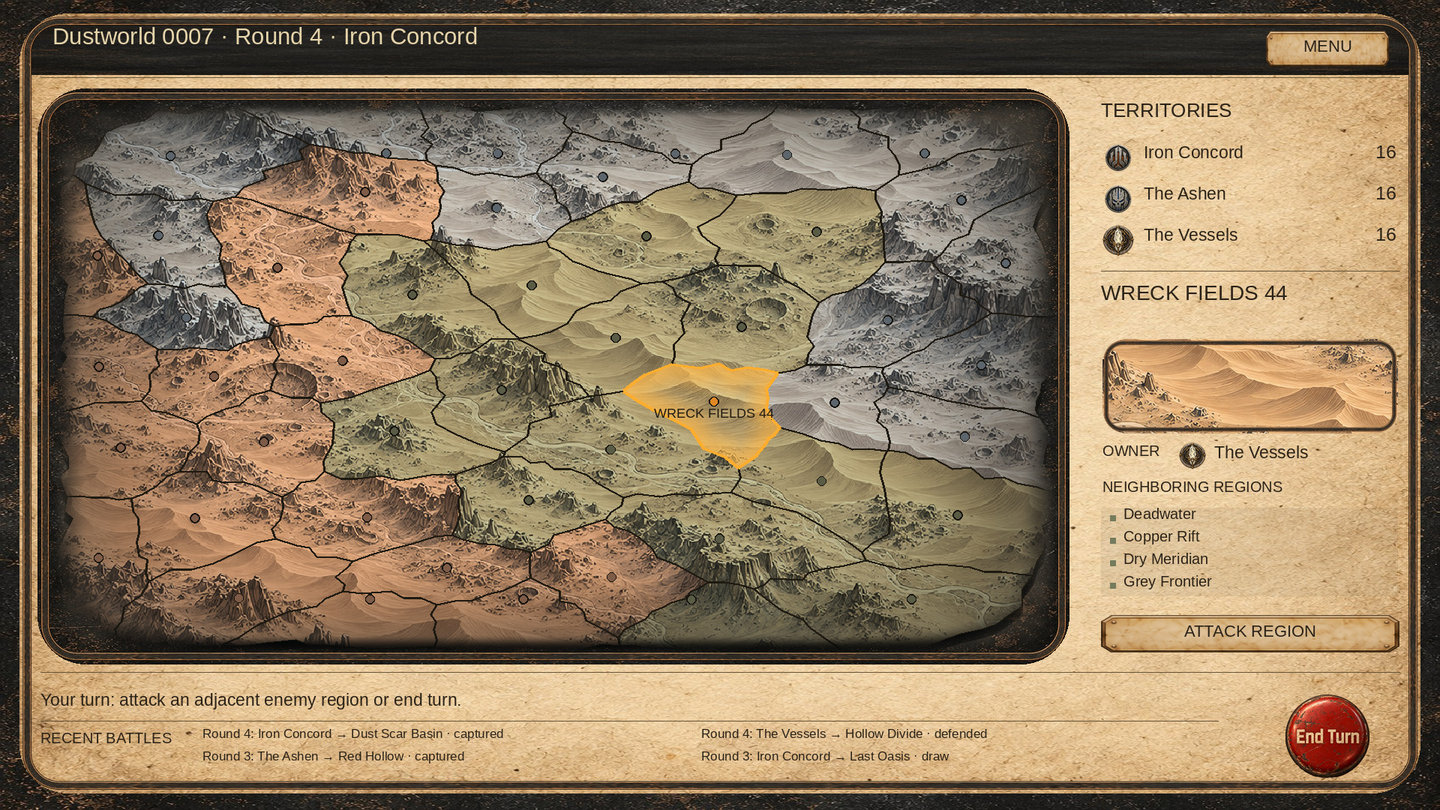
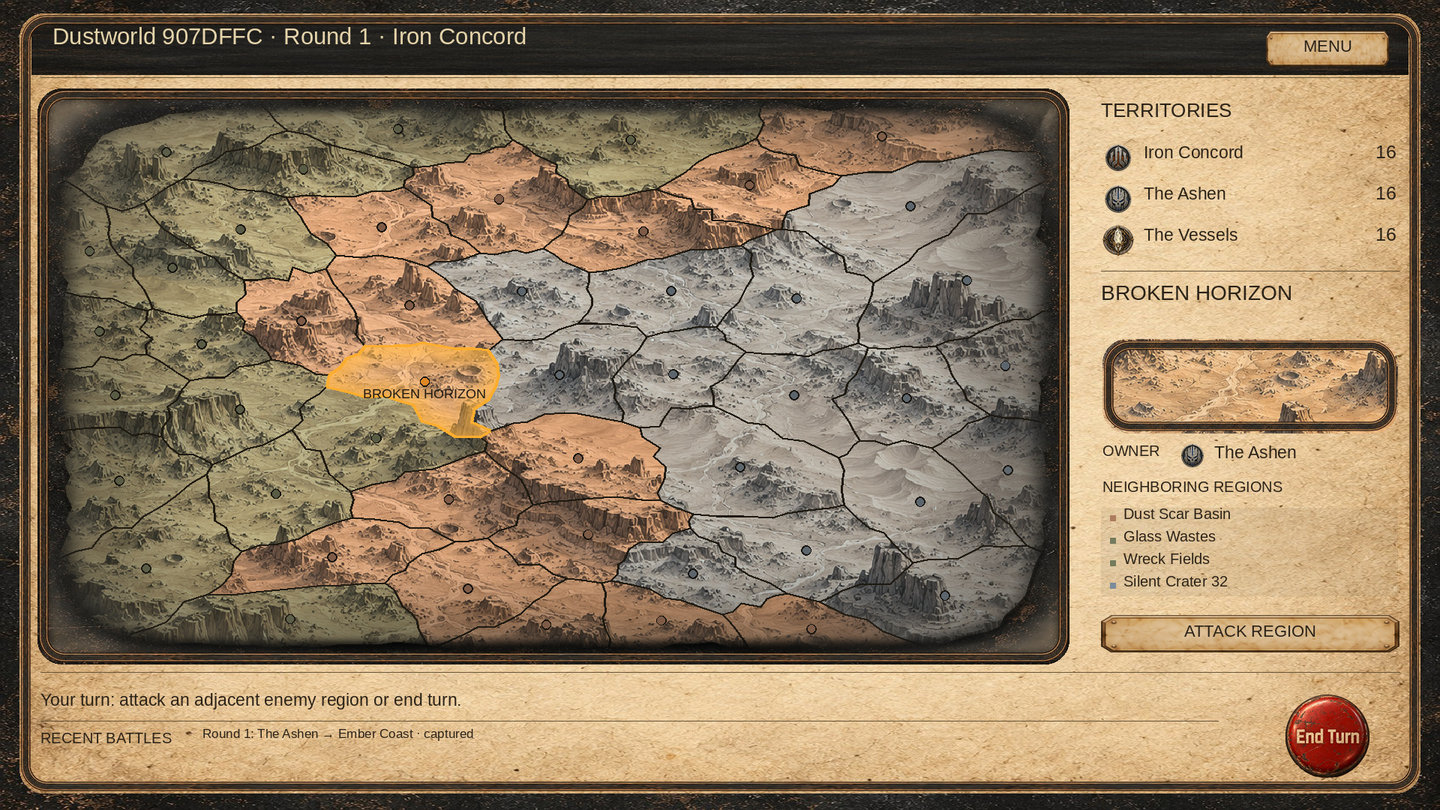
Refine campaign cloud blending, compact frame corners and center region markers

diff --git a/Assets/Editor/CampaignVisualTests.cs b/Assets/Editor/CampaignVisualTests.cs
@@ -8,10 +8,12 @@ using UnityEngine.UI;
 
 public sealed class CampaignVisualTests
 {
-    [TestCase(false, 0f)]
-    [TestCase(false, .99f)]
-    [TestCase(true, 0f)]
-    public void ShaderKeepsBothSidesAfterCanvasBatchTranslation(bool croppedOverlay, float markerRadius)
+    [TestCase(false, 0f, false, 0f)]
+    [TestCase(false, .99f, false, 0f)]
+    [TestCase(true, 0f, false, 0f)]
+    [TestCase(false, 0f, true, 0f)]
+    [TestCase(false, .99f, false, -1f)]
+    public void ShaderKeepsBothSidesAfterCanvasBatchTranslation(bool croppedOverlay, float markerRadius, bool clouds, float surfaceMode)
     {
         if (SystemInfo.graphicsDeviceType == UnityEngine.Rendering.GraphicsDeviceType.Null)
             Assert.Ignore("A graphics device is required for the batched UI shader regression.");
@@ -28,7 +30,7 @@ public sealed class CampaignVisualTests
             mesh.uv = croppedOverlay
                 ? new[] { new Vector2(.2f, .3f), new Vector2(.52f, .3f), new Vector2(.52f, .42f), new Vector2(.2f, .42f) }
                 : new[] { Vector2.zero, Vector2.right, Vector2.one, Vector2.up };
-            mesh.SetUVs(1, new System.Collections.Generic.List<Vector4> { new Vector4(0, 1, markerRadius, 0), new Vector4(0, 1, markerRadius, 0), new Vector4(0, 1, markerRadius, 0), new Vector4(0, 1, markerRadius, 0) });
+            mesh.SetUVs(1, new System.Collections.Generic.List<Vector4> { new Vector4(surfaceMode, 1, markerRadius, 0), new Vector4(surfaceMode, 1, markerRadius, 0), new Vector4(surfaceMode, 1, markerRadius, 0), new Vector4(surfaceMode, 1, markerRadius, 0) });
             mesh.SetUVs(2, new System.Collections.Generic.List<Vector4> { new Vector4(0, 0, 0, 0), new Vector4(0, 0, 1, 0), new Vector4(0, 0, 1, 1), new Vector4(0, 0, 0, 1) });
             mesh.triangles = new[] { 0, 1, 2, 0, 2, 3 };
             material.SetVector("_SurfaceSize", new Vector4(1360, 740, 0, 0));
@@ -38,6 +40,11 @@ public sealed class CampaignVisualTests
                 material.SetFloat("_Atmosphere", 1);
                 material.SetFloat("_CornerRadius", 64);
                 material.SetVector("_UVRect", new Vector4(.2f, .3f, .32f, .12f));
+            }
+            if (clouds)
+            {
+                material.SetFloat("_Atmosphere", 1);
+                material.SetFloat("_CloudOverlay", 1);
             }
             material.SetTexture("_MainTex", Texture2D.whiteTexture);
             material.SetInt("unity_GUIZTestMode", (int)UnityEngine.Rendering.CompareFunction.Always);
@@ -53,8 +60,17 @@ public sealed class CampaignVisualTests
             finally { GL.PopMatrix(); }
             readback.ReadPixels(new Rect(0, 0, 512, 256), 0, 0); readback.Apply();
             // x=-800 was incorrectly below the old local xMin=-680, despite being inside the map.
-            Assert.That(readback.GetPixel(43, 128).a, Is.GreaterThan(.95f), "Left side clipped by mixed coordinate spaces");
-            Assert.That(readback.GetPixel(336, 128).a, Is.GreaterThan(.95f), "Right side must stay visible too");
+            if (clouds || surfaceMode < 0)
+            {
+                Assert.That(readback.GetPixel(43, 128).a, Is.LessThan(.15f), "Clouds over regions and the depth silhouette must stay soft");
+                if (clouds)
+                    Assert.That(readback.GetPixel(18, 53).a, Is.GreaterThan(readback.GetPixel(180, 128).a * 5), "Clouds must remain denser outside the map near its corners");
+            }
+            else
+            {
+                Assert.That(readback.GetPixel(43, 128).a, Is.GreaterThan(.95f), "Left side clipped by mixed coordinate spaces");
+                Assert.That(readback.GetPixel(336, 128).a, Is.GreaterThan(.95f), "Right side must stay visible too");
+            }
             if (croppedOverlay)
                 Assert.That(readback.GetPixel(14, 51).a, Is.LessThan(.02f), "Cropped terrain UVs must not move the rounded mask away from its corner");
         }
@@ -163,6 +179,27 @@ public sealed class CampaignVisualTests
         Assert.True(CampaignGeometry.Contains(region.PolygonVertices, CampaignRegionGraphic.InteriorCenter(region)));
     }
     [Test]
+    public void MarkerCenterDoesNotDependOnBorderVertexDensity()
+    {
+        var region = new RegionState { PolygonVertices = new System.Collections.Generic.List<Vector2>
+            { new Vector2(-.2f, -.2f), new Vector2(.2f, -.2f), new Vector2(.2f, .2f),
+              new Vector2(.1f, .2f), new Vector2(0, .2f), new Vector2(-.1f, .2f), new Vector2(-.2f, .2f) } };
+        Assert.That(CampaignRegionGraphic.InteriorCenter(region).sqrMagnitude, Is.LessThan(1e-10f));
+    }
+    [Test]
+    public void OuterRegionMarkerStaysAtItsVisibleAreaCenter()
+    {
+        var region = new RegionState { PolygonVertices = new System.Collections.Generic.List<Vector2>
+            { new Vector2(-.08f, .84f), new Vector2(.08f, .84f), new Vector2(.08f, .96f), new Vector2(-.08f, .96f) } };
+        var marker = CampaignRegionGraphic.VisibleCenter(region);
+        var displayed = CampaignMapView.Project(marker);
+        Assert.True(CampaignGeometry.Contains(region.PolygonVertices, marker));
+        Assert.That(displayed.x, Is.EqualTo(0).Within(1e-5f));
+        Assert.That(displayed.y, Is.InRange(.880f, .890f), "The former .80 viewport gate pulled this marker away from its region center");
+        foreach (var point in region.PolygonVertices)
+            Assert.That((CampaignMapView.Unproject(CampaignMapView.Project(point)) - point).sqrMagnitude, Is.LessThan(1e-10f));
+    }
+    [Test]
     public void SelectionGlowFadesFromContourTowardTheInterior()
     {
         var boundary = new[] { new Vector2(0, 0), new Vector2(100, 0), new Vector2(100, 100), new Vector2(0, 100) };
@@ -225,6 +262,14 @@ public sealed class CampaignVisualTests
                 vh.FillMesh(mesh);
             }
             Assert.True(mesh.uv3.All(v => v.x == 0));
+            graphic.Configure(state.Regions[0], null, null, true);
+            using (var vh = new VertexHelper())
+            {
+                typeof(CampaignRegionGraphic).GetMethod("OnPopulateMesh", System.Reflection.BindingFlags.NonPublic | System.Reflection.BindingFlags.Instance)
+                    .Invoke(graphic, new object[] { vh });
+                vh.FillMesh(mesh);
+            }
+            Assert.True(mesh.uv2.All(v => v.x == -1), "Depth meshes must use the solid-color horizon-fade shader mode");
             CampaignGeometry.Validate(state.Regions, true);
         }
         finally { Object.DestroyImmediate(root); Object.DestroyImmediate(mesh); Object.DestroyImmediate(material); }

diff --git a/Assets/Scripts/Campaign/CampaignUI.cs b/Assets/Scripts/Campaign/CampaignUI.cs
@@ -18,7 +18,7 @@ namespace Game.Campaign
         [SerializeField] private Sprite endTurnSprite, actionButtonSprite;
         [SerializeField] private Sprite ironConcordLogo, ashenLogo, vesselsLogo;
         private Sprite frameSprite, paperSprite, metalSprite;
-        private Material cloudMaterial, consoleMaterial, surfacePanelMaterial, regionPreviewMaterial;
+        private Material cloudMaterial, consoleMaterial, surfacePanelMaterial, regionPreviewMaterial, modalPanelMaterial;
         private static readonly Color PaperInk = new Color(.17f, .135f, .095f);
         private static readonly Color Cream = new Color(.90f, .83f, .67f);
         private RectTransform canvas, sidebar, footer, modal, modalContent;
@@ -48,7 +48,7 @@ namespace Game.Campaign
                 consoleMaterial = new Material(cloudShader) { name = "CampaignConsole (runtime)" };
                 consoleMaterial.SetFloat("_Atmosphere", 1);
                 consoleMaterial.SetFloat("_EdgeFeather", 1);
-                consoleMaterial.SetFloat("_CornerRadius", 64);
+                consoleMaterial.SetFloat("_CornerRadius", 32);
                 consoleMaterial.SetVector("_SurfaceSize", new Vector4(1868, 1040, 0, 0));
                 console.GetComponent<Image>().material = consoleMaterial;
                 console.gameObject.AddComponent<Mask>();
@@ -72,19 +72,21 @@ namespace Game.Campaign
             mapRect.offsetMin = new Vector2(12, 12); mapRect.offsetMax = new Vector2(-12, -12);
             mapRect.gameObject.AddComponent<RectMask2D>();
             map = mapRect.gameObject.AddComponent<CampaignMapView>();
-            // Under the map: atmosphere fills the remaining corners but never paints over regions.
+            // Above the terrain: dense over the background, restrained over the region footprint.
             var clouds = CollectionUIElements.Rect(surface, "AtmosphericClouds"); CollectionUIElements.Stretch(clouds);
-            clouds.offsetMin = new Vector2(12, 12); clouds.offsetMax = new Vector2(-12, -12);
-            clouds.SetSiblingIndex(mapRect.GetSiblingIndex());
             var cloudImage = clouds.gameObject.AddComponent<RawImage>();
             cloudImage.texture = Resources.Load<Texture2D>("Campaign/AtmosphericClouds");
-            cloudImage.color = new Color(.78f, .75f, .68f, .36f); cloudImage.raycastTarget = false;
+            cloudImage.uvRect = new Rect(.10f, .10f, .80f, .80f);
+            cloudImage.color = new Color(.78f, .75f, .68f, .78f); cloudImage.raycastTarget = false;
             cloudImage.enabled = cloudImage.texture != null && cloudShader != null;
             if (cloudImage.enabled)
             {
                 cloudMaterial = new Material(cloudShader) { name = "CampaignAtmosphere (runtime)" };
                 cloudMaterial.SetFloat("_Atmosphere", 1);
-                cloudMaterial.SetVector("_SurfaceSize", new Vector4(1352, 744, 0, 0));
+                cloudMaterial.SetFloat("_CloudOverlay", 1);
+                cloudMaterial.SetVector("_UVRect", new Vector4(.10f, .10f, .80f, .80f));
+                cloudMaterial.SetVector("_MapViewport", new Vector4(12f / 1376, 12f / 768, 1352f / 1376, 744f / 768));
+                cloudMaterial.SetVector("_SurfaceSize", new Vector4(1376, 768, 0, 0));
                 cloudImage.material = cloudMaterial;
             }
             Frame(surface);
@@ -189,7 +191,7 @@ namespace Game.Campaign
                 terrain.uvRect = new Rect(Mathf.Clamp(center.x - .16f, 0, .68f), Mathf.Clamp(center.y - previewHeight / 2, 0, 1 - previewHeight), .32f, previewHeight);
                 if (regionPreviewMaterial != null)
                     regionPreviewMaterial.SetVector("_UVRect", new Vector4(terrain.uvRect.x, terrain.uvRect.y, terrain.uvRect.width, terrain.uvRect.height));
-                Frame(preview, 8);
+                Frame(preview);
                 Label(sidebar, "OWNER", 30, 482, 98, 34, 20);
                 Logo(sidebar, region.OwnerFaction, 132, 478, 36);
                 Label(sidebar, FactionName(region.OwnerFaction), 179, 482, 245, 34, 23);
@@ -252,6 +254,16 @@ namespace Game.Campaign
             cancelModal = onCancel;
             modal.GetComponent<Image>().color = new Color(0, 0, 0, .8f);
             modalContent = CollectionUIElements.Panel(modal, title); CollectionUIElements.Place(modalContent, 485, 190, 950, 700); Skin(modalContent, true);
+            if (consoleMaterial != null)
+            {
+                if (modalPanelMaterial == null)
+                {
+                    modalPanelMaterial = new Material(consoleMaterial) { name = "CampaignDialog (runtime)" };
+                    modalPanelMaterial.SetVector("_SurfaceSize", new Vector4(950, 700, 0, 0));
+                }
+                modalContent.GetComponent<Image>().material = modalPanelMaterial;
+                modalContent.gameObject.AddComponent<Mask>();
+            }
             Label(modalContent, title, 35, 25, 880, 58, 30); UIFocusUtility.SetOverlay(this, true); RefreshMap();
         }
         private void CloseModal()
@@ -362,12 +374,12 @@ namespace Game.Campaign
             image.color = paper ? Color.white : new Color(.82f, .82f, .82f);
             if (framed) Frame(rect);
         }
-        private void Frame(RectTransform parent, float pixelsPerUnitMultiplier = 4)
+        private void Frame(RectTransform parent)
         {
             if (frameSprite == null) return;
             var rect = CollectionUIElements.Rect(parent, "MetalBorder"); CollectionUIElements.Stretch(rect);
             var image = rect.gameObject.AddComponent<Image>(); image.sprite = frameSprite;
-            image.type = Image.Type.Sliced; image.fillCenter = false; image.pixelsPerUnitMultiplier = pixelsPerUnitMultiplier;
+            image.type = Image.Type.Sliced; image.fillCenter = false; image.pixelsPerUnitMultiplier = 4;
             image.raycastTarget = false;
         }
         private Button Button(Transform parent, string value, float x, float y, float w, float h, Action action, int size = 22)
@@ -408,6 +420,7 @@ namespace Game.Campaign
             if (consoleMaterial != null) Destroy(consoleMaterial);
             if (surfacePanelMaterial != null) Destroy(surfacePanelMaterial);
             if (regionPreviewMaterial != null) Destroy(regionPreviewMaterial);
+            if (modalPanelMaterial != null) Destroy(modalPanelMaterial);
         }
     }
 }

diff --git a/Assets/Scripts/Campaign/CampaignRegionGraphic.cs b/Assets/Scripts/Campaign/CampaignRegionGraphic.cs
@@ -37,11 +37,11 @@ namespace Game.Campaign
             clicked = click; hovered = onHover; SetVerticesDirty();
         }
 
-        // A concave generated cell's vertex average can lie outside it. Use an actual interior triangle.
+        // Area weighting is independent of how densely individual borders were subdivided.
         public static Vector2 InteriorCenter(RegionState region)
         {
             var p = region.PolygonVertices;
-            var center = CampaignGeometry.Center(region);
+            var center = AreaCenter(p);
             if (CampaignGeometry.Contains(p, center)) return center;
             var indices = CampaignGeometry.Triangulate(p);
             double largest = -1; Vector2 result = center;
@@ -54,13 +54,15 @@ namespace Game.Campaign
             return result;
         }
 
-        // Keep each marker in its original cell and its displayed polygon.
+        // Center the marker in the visible polygon; do not pull outer cells toward the map center.
         public static Vector2 VisibleCenter(RegionState region)
         {
-            var center = InteriorCenter(region);
-            var projectedCenter = CampaignMapView.Project(center);
             var displayedPolygon = region.PolygonVertices.ConvertAll(CampaignMapView.Project);
-            if (Math.Abs(projectedCenter.x) <= .90f && Math.Abs(projectedCenter.y) <= .80f && CampaignGeometry.Contains(displayedPolygon, projectedCenter)) return center;
+            var desired = AreaCenter(displayedPolygon);
+            var center = CampaignMapView.Unproject(desired);
+            if (CampaignGeometry.Contains(region.PolygonVertices, center) && CampaignGeometry.Contains(displayedPolygon, desired)) return center;
+            center = InteriorCenter(region);
+            if (CampaignGeometry.Contains(displayedPolygon, CampaignMapView.Project(center))) return center;
             var vertices = region.PolygonVertices;
             var triangles = CampaignGeometry.Triangulate(vertices);
             var best = center; double bestScore = double.MaxValue;
@@ -71,13 +73,23 @@ namespace Game.Campaign
                         var point = (vertices[triangles[t]] * a + vertices[triangles[t + 1]] * b
                             + vertices[triangles[t + 2]] * (12 - a - b)) / 12f;
                         var projectedPoint = CampaignMapView.Project(point);
-                        if (!CampaignGeometry.Contains(displayedPolygon, projectedPoint)) continue;
-                        double overflow = Math.Max(0, Math.Abs(projectedPoint.x) - .90f)
-                            + Math.Max(0, Math.Abs(projectedPoint.y) - .80f);
-                        double score = overflow * 100 + (point - center).sqrMagnitude;
+                        if (!CampaignGeometry.Contains(vertices, point) || !CampaignGeometry.Contains(displayedPolygon, projectedPoint)) continue;
+                        double score = (projectedPoint - desired).sqrMagnitude;
                         if (score < bestScore) { bestScore = score; best = point; }
                     }
             return best;
+        }
+
+        private static Vector2 AreaCenter(IReadOnlyList<Vector2> vertices)
+        {
+            double area = 0, x = 0, y = 0;
+            for (int i = 0; i < vertices.Count; i++)
+            {
+                var a = vertices[i]; var b = vertices[(i + 1) % vertices.Count];
+                double cross = (double)a.x * b.y - (double)b.x * a.y;
+                area += cross; x += (a.x + b.x) * cross; y += (a.y + b.y) * cross;
+            }
+            return Math.Abs(area) > 1e-12 ? new Vector2((float)(x / (3 * area)), (float)(y / (3 * area))) : vertices[0];
         }
 
         // Distance to the actual displayed contour, including concave notches.
@@ -194,7 +206,8 @@ namespace Game.Campaign
         private void AddVertex(VertexHelper vh, Vector2 position, Color tint, Vector2 uv, bool textured, float lighting = 1, float glow = 0, Vector2 mapPoint = default)
         {
             var vertex = UIVertex.simpleVert; vertex.position = position; vertex.color = tint;
-            vertex.uv0 = uv; vertex.uv1 = new Vector4(textured ? 1 : 0, lighting, mapPoint.x, mapPoint.y);
+            // -1 is the depth silhouette: solid color with terrain's horizon fade, without sampling.
+            vertex.uv0 = uv; vertex.uv1 = new Vector4(textured ? 1 : silhouette ? -1 : 0, lighting, mapPoint.x, mapPoint.y);
             // UV data is not transformed by Canvas batching; POSITION may be in Canvas space.
             var viewport = CampaignMapView.FromPixel(rectTransform.rect, position) * .5f + new Vector2(.5f, .5f);
             vertex.uv2 = new Vector4(glow, 0, viewport.x, viewport.y); vh.AddVert(vertex);

diff --git a/Assets/Scripts/Campaign/CampaignMapView.cs b/Assets/Scripts/Campaign/CampaignMapView.cs
@@ -19,6 +19,7 @@ namespace Game.Campaign
         // Map the disk to a rounded rectangle, filling the panel's corners without cropping cells.
         // A radial bijection keeps saves and shared boundaries in their original map space.
         public static Vector2 Project(Vector2 p) => p.sqrMagnitude < 1e-12f ? Vector2.zero : p * (float)(.98 * Math.Sqrt(p.sqrMagnitude) / Math.Pow(Math.Pow(p.x, 8) + Math.Pow(p.y, 8), .125));
+        public static Vector2 Unproject(Vector2 p) => p.sqrMagnitude < 1e-12f ? Vector2.zero : p * (float)(Math.Pow(Math.Pow(p.x, 8) + Math.Pow(p.y, 8), .125) / (.98 * Math.Sqrt(p.sqrMagnitude)));
         public static Vector2 ToPixel(Rect rect, Vector2 projected) => rect.center + new Vector2(projected.x * rect.width * .50f, projected.y * rect.height * .50f);
         public static Vector2 FromPixel(Rect rect, Vector2 pixel) => new Vector2((pixel.x - rect.center.x) / (rect.width * .50f), (pixel.y - rect.center.y) / (rect.height * .50f));
         // Cover the viewport by cropping, preserving the texture's pixel aspect ratio.

diff --git a/Docs/Campaign_MapFitAndRoundedFrames.md b/Docs/Campaign_MapFitAndRoundedFrames.md
@@ -1,38 +1,38 @@
-# Campaign map fit and rounded frames
+# Campaign fit, clouds, compact corners and region markers
 
-Local presentation correction against master `c659d1d335de3f601c3b7444baf0f756668c3d1b`. Campaign generation, saved polygons, neighboring regions and battle rules are unchanged.
+Local presentation correction against master `c659d1d335de3f601c3b7444baf0f756668c3d1b`. Generation, stored polygons, neighboring regions, campaign saves and battle rules remain unchanged.
 
-## Cause and correction
+## Final behavior
 
-- The disk-shaped map left large dark corner areas inside a rectangular panel. Its UI projection now maps the disk radially into a rounded rectangle with exponent 8 and a 2% margin. The resulting outer silhouette covers about 94% of the viewport. Terrain UVs remain linear in pixel space and preserve image aspect; arrows, labels and region hit tests continue to share the existing projection.
-- The cloud RawImage was above every region and label. It now precedes the Regions child in sibling order and has reduced alpha (0.36). Terrain feathers only across the outer rim, starting at map radius 0.94, while solid borders and markers retain their opacity. Clouds stay decorative and do not receive input.
-- The selected region name is clamped within the map viewport so the label remains readable on outer cells.
-- The map frame touched the console's left rail and crowded the header/footer rails. The map panel now starts 24 units inside the console, 18 below the header and 21 above the footer. Its viewport is 1352 × 744 inside a 1376 × 768 panel.
-- A new rounded nine-sliced frame replaces the angular frame in CampaignUI only. Its 256px slice boundaries contain the entire curved corners; the sprite uses a unique GUID. The previous MetalFrame asset and metadata are retained.
-- The console and map backing use rounded stencil masks through the existing campaign surface shader. The small terrain preview uses a thinner instance of the same frame, a 32-unit corner mask and explicit UV-rect normalization so cropped terrain UVs cannot shift the mask.
-- The three panel materials and cloud material are owned by CampaignUI and disposed on destruction. The preview material is reused when the selected region changes.
+- The UI projects the existing disk-shaped map into a rounded rectangle, occupying approximately 94% of its viewport. The map viewport remains 1352 × 744 inside a 1376 × 768 panel. Insets separate the map rail from the console, header and footer.
+- Clouds render above regions and below the map frame. A modest texture crop moves visible mist toward the corners. The existing shader derives the map footprint from the same exponent-8 projection and the actual 12-unit map inset. Within radius 0.99, cloud alpha is multiplied by 0.10 and RGB is 70% desaturated: maximum opacity is 0.078 before texture alpha/edge feather. Across radius 0.99–1.075 it smoothly increases to the full 0.78 layer opacity, covering the corner background. The layer does not receive input; cropped UVs are normalized before masking.
+- The edited frame has compact curves, worn graphite/bronze rails and a transparent center. The 192px nine-slice borders contain the full curved corners. Console, map, region preview and dialog masks use a consistent 32-unit radius. The rounded frame GUID is preserved; the original angular MetalFrame remains intact.
+- The depth silhouette receives the same soft horizon fade as terrain. Packed surface mode -1 means solid depth color with horizon fading, 0 means opaque contours/markers, and 1 means textured terrain.
+- Markers use the area centroid of the displayed polygon, mapped back into saved coordinates through the inverse UI projection. The vertex-average bias and .90/.80 viewport gates are removed. Concave regions retain an interior fallback inside both polygons. Labels, arrows and sidebar sampling use the same calculation; selected labels remain inside the viewport.
+- CampaignUI owns and disposes its cloud/panel materials. Preview and dialog materials are reused when content changes.
 
 ## Preview
 
-![CPU composition of seed 7 with a selected region and sample battle history](Campaign_MapFitAndRoundedFrames.jpg)
+![CPU composition using the screenshot seed 0x907DFFC](Campaign_MapFitAndRoundedFrames.jpg)
 
-This is a CPU composition using production assets and projected generated polygons, not a Unity screenshot. Texture shading, TMP layout, stencil interaction and input require native verification.
+This is a CPU composition of production assets and newly generated seed 0x907DFFC polygons, with a selected-region and history fixture. It is not the user's live save or a Unity screenshot. GPU shading, TMP metrics, stencil clipping and input require native verification.
 
 ## Validation
 
-- Baseline and changed presentation source/test declarations compile with zero errors against available Unity reference DLLs and explicit verifier stubs. Existing serialized-field warnings remain.
-- Managed production-source checks pass: 35 maps / 1680 regions, projection/input coordinates at three resolutions, terrain pixel aspect, UV bounds and unchanged saved polygons.
-- Stress check passes: 1000 generated planets / 48000 regions; projected triangulation, polygon area, interior markers, mesh budget, custom region counts, reproducibility and managed restoration of previous 24-region geometry.
-- New rounded projection test bounds the limb at 0.98 and confirms corner coverage. GPU regression cases cover Canvas translation, opaque edge markers, cropped overlay UVs and rounded corner clipping. GPU cases are added but not executed here.
-- Asset alpha, unique GUID, nine-slice metadata, sibling order, layout spacing and diff whitespace checks pass.
-- Unity 6000.5.4f1 is unavailable. Native shader import, EditMode tests, nested stencil masks, player build and visual/input acceptance remain pending. Verify hover/select on every outer region, attack confirmation, scrolling, menu, end turn, and dialogs at 1920×1080 and other 16:9 resolutions.
+- Baseline and changed presentation source/test declarations compile with zero errors against available Unity reference DLLs and explicit verifier stubs.
+- The old centering code fails both targeted regressions: an unevenly subdivided centered rectangle yields y=0.085714 instead of 0; an outer rectangle yields displayed y=0.833 rather than 0.880–0.890. The changed code passes both.
+- Managed production-source checks pass for 36 maps / 1728 regions, including seed 0x907DFFC: interior markers, three-resolution input projection, terrain aspect, UV bounds, unchanged saved polygons, concave fallback and selection glow.
+- Stress checks pass for 1000 planets / 48000 regions: projected triangulation/area, markers in both polygons, mesh budget, custom counts, reproducibility and managed restoration of previous 24-region geometry.
+- GPU regression declarations cover Canvas translation, opaque outer markers, soft depth silhouettes, cropped overlay masks and stronger cloud opacity outside the map. GPU cases are not executed here.
+- Asset alpha, preserved GUID, corner slice bounds, overlay sibling order, non-intercepting decoration, material cleanup, numerical cloud alpha limits and diff whitespace checks pass.
+- Unity 6000.5.4f1 is unavailable. Shader import, native EditMode/GPU tests, nested masks and in-scene acceptance remain pending. Check outer regions/points, preview crops, cloud corners, scrolling, menu/end turn and dialogs at 1920×1080 and other 16:9 resolutions.
 
-## Frame generation
+## Final frame edit
 
-Mode: built-in image_gen, transparent-background generation using the old frame only as a style reference. The returned PNG is copied unchanged to `Assets/Resources/Campaign/MetalFrameRounded.png`.
+Mode: built-in image_gen with a transparent background. The returned PNG is copied unchanged to `Assets/Resources/Campaign/MetalFrameRounded.png`, replacing oversized-corner artwork and preserving its metadata GUID.
 
 Final prompt:
 
 ```text
-Use case: stylized-concept. Asset type: production Unity UI nine-sliced frame sprite, transparent PNG. Image 1 is a style reference only: match its worn graphite steel, restrained antique bronze rim and matte post-apocalyptic painted texture. Create ONE square panel frame viewed straight on, symmetrical, on an actual transparent background, with a completely transparent empty center. Change the silhouette into a continuous softly ROUNDED RECTANGLE: large smooth quarter-circle corners, outer radius about 100 pixels on a 1024 square, with matching smoothly curved inner edge. Narrow uniform rail about 18 pixels wide on all four sides. Outer bounding box almost fills the canvas, equal 8 pixel transparent margin on all sides. Continuous thin bronze highlight on inner and outer rail, subtle dark metal between, fine wear and faint scratches. The four curved corners must have the same narrow thickness as the sides and fit entirely within 128 pixel nine-slice corner zones. Straight edges begin by 128 pixels from each corner. Minimal delicate industrial frame, understated low contrast. No angular brackets, no diagonal chamfers, no corner plates, no screws, no rivets, no ornaments, no protrusions, no thick beams, no paper, no center fill, no glow, no text, no logos. Preserve genuine alpha transparency including the center and outside the rounded silhouette. One frame only.
+Use case: precise-object-edit. Asset type: transparent production Unity nine-sliced panel frame PNG. Image 1 is the edit target: preserve the worn graphite steel, fine antique bronze edge highlights, narrow uniform rail thickness, matte surface texture and square overall proportions. Change ONLY the four oversized rounded corners into compact softly rounded corners: each outer quarter circle radius should be about 64 pixels on a 1024x1024 canvas, never more than 80px. The straight top/bottom edges must begin by x=96px from each corner; straight left/right edges begin by y=96px. Inner and outer curves concentric and uniform thickness, no fat corner pads. Rectangular panel frame with small gentle bends at corners, NOT a capsule and NOT large sweeping arcs. Rails around 32 pixels thick. The outer edges of the straight rails align nearly to the canvas edge with only a 2 pixel transparent margin, equal all sides. Empty center completely alpha transparent, exterior corners completely alpha transparent, same genuine transparent background as reference. Keep all four corners symmetrical, keep the bronze restrained and dark steel understated. No screws, rivets, diagonal chamfers, plates, ornaments, extra rings, paper fill, background rectangle, text, logos or objects. Output one frame only with actual alpha transparency.
 ```
